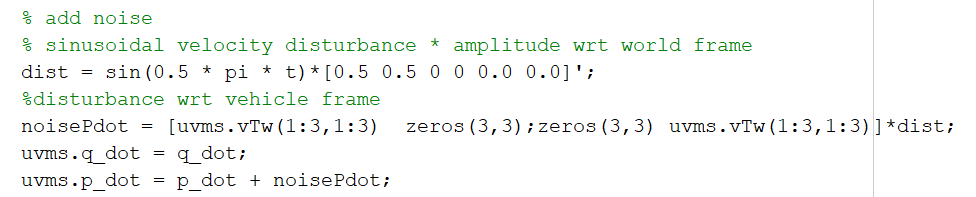
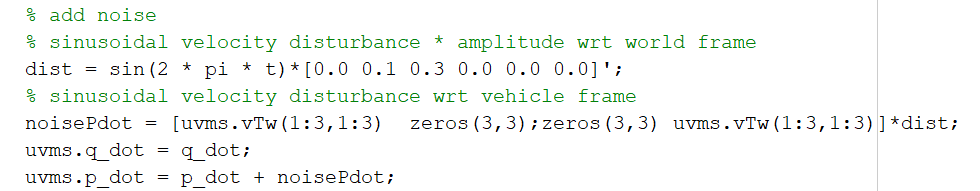
6 + print

diff --git a/esReport/es6/MainDexrov.m b/esReport/es6/MainDexrov.m
@@ -40,17 +40,17 @@ uvms = InitUVMS('DexROV');
 % Initial joint positions. You can change these values to initialize the simulation with a 
 % different starting position for the arm
 uvms.q = [-0.0031 1.2586 0.0128 -1.2460 0.0137 0.0853-pi/2 0.0137]';
-% uvms.p
 % initial position of the vehicle
 % the vector contains the values in the following order
 % [x y z r(rot_x) p(rot_y) y(rot_z)]
 % RPY angles are applied in the following sequence
 % R(rot_x, rot_y, rot_z) = Rz (rot_z) * Ry(rot_y) * Rx(rot_x)
 %uvms.p = [-1.9379 10.4813-6.1 -29.7242-0.1 0 0 0]';
-uvms.p = [ -1.8346, 10.540, -29.34, 0, 0,  0]';
+uvms.p = [-1.9400   10.6052  -29.0009  0.0926, 0.1050, -0.9320]';
+%uvms.p = [ -2, 10.440, -29.34, 0, 0,  -pi]';
 % initial goal position definition
 % slightly over the top of the pipe
-distanceGoalWrtPipe = 0.3;
+distanceGoalWrtPipe = 0.2;
 uvms.goalPosition = pipe_center + (pipe_radius + distanceGoalWrtPipe)*[0 0 1]';
 uvms.wRg = rotation(pi,0,0);
 uvms.wTg = [uvms.wRg uvms.goalPosition; 0 0 0 1];
@@ -103,7 +103,7 @@ for t = 0:deltat:end_time
     [Qp2, rhop2] = iCAT_task(uvms.A.t,    uvms.Jt,    Qp2, rhop2, uvms.xdot.t,  0.0001,   0.01, 10);
     %optmization
     [Qp2, rhop2] = iCAT_task(uvms.A.preferedShape,    uvms.JpreferedShape,    Qp2, rhop2, uvms.xdot.preferedShape,  0.0001,   0.01, 10);
-    %[Qp2, rhop2] = iCAT_task(uvms.A.vehicleStop,    uvms.JvehicleStop,    Qp2, rhop2, uvms.xdot.vehicleStop,  0.0001,   0.01, 10);
+    [Qp2, rhop2] = iCAT_task(uvms.A.vehicleStop,    uvms.JvehicleStop,    Qp2, rhop2, uvms.xdot.vehicleStop,  0.0001,   0.01, 10);
 
     [Qp2, rhop2] = iCAT_task(eye(13),     eye(13),    Qp2, rhop2, zeros(13,1),  0.0001,   0.01, 10);    % this task should be the last one
     
@@ -114,7 +114,7 @@ for t = 0:deltat:end_time
     
     % add noise
     % sinusoidal velocity disturbance * amplitude wrt world frame 
-    dist = sin(0.5 * pi * t)*[1.5 1.5 0 0 0.0 0.0]';
+    dist = sin(2 * pi * t)*[0.0 0.1 0.3 0.0 0.0 0.0]';
     % sinusoidal velocity disturbance wrt vehicle frame
     noisePdot = [uvms.vTw(1:3,1:3)  zeros(3,3);zeros(3,3) uvms.vTw(1:3,1:3)]*dist;
     uvms.q_dot = q_dot;        
@@ -137,11 +137,15 @@ for t = 0:deltat:end_time
    
     % add debug prints hereww
     if (mod(t,0.1) == 0)
-        mission.phase
-        [ang, lin] = CartError(uvms.wTg , uvms.wTt);
-        angular = ang
-        linear = lin
-        uvms.p
+%         mission.phase
+%         [ang, lin] = CartError(uvms.wTg , uvms.wTt);
+%         angular = ang
+%         linear = lin
+          uvms.p
+%         uvms.xdot.t
+%         uvms.xdot.jointLimitsL
+%         uvms.xdot.jointLimitsU
+%         uvms.xdot.preferedShape
     end
     
     % enable this to have the simulation approximately evolving like real

diff --git a/esReport/es6/PrintPlot.m b/esReport/es6/PrintPlot.m
@@ -27,12 +27,6 @@ xlabel('t (s)')
 ylabel('L.vel (m/s),A.vel (rad/s) ')
 legend('xdot', 'ydot','zdot','omega_x','omega_y','omega_z');
 
-
-figure(3);
-hplot = plot(plt.t, plt.a(1:7,:));
-set(hplot, 'LineWidth', 2);
-legend('Ajl_11','Ajl_22','Ajl_33','Ajl_44','Ajl_55','Ajl_66','Ajl_77');
-
 figure(4);
 hplot = plot(plt.t, plt.a(8:9,:));
 set(hplot, 'LineWidth', 2);
@@ -88,6 +82,47 @@ legend('x','y','z');
 title('tool position')
 xlabel('t (s)')
 ylabel('Position (m)')
+figure(20);
+hplot = plot(plt.t, plt.toolPos(1,:));
+set(hplot, 'LineWidth', 1);
+title('comparison vehicle and tool x')
+xlabel('t (s)')
+ylabel('Position (m)')
+hold on 
+hplot = plot(plt.t, plt.p(3,:));
+set(hplot, 'LineWidth', 1);
+legend('x tool','x vehicle');
+figure(21);
+hplot = plot(plt.t, plt.toolPos(2,:));
+set(hplot, 'LineWidth', 1);
+title('comparison vehicle and tool y')
+xlabel('t (s)')
+ylabel('Position (m)')
+hold on 
+hplot = plot(plt.t, plt.p(2,:));
+set(hplot, 'LineWidth', 1);
+legend('y tool','y vehicle');
+figure(22);
+hplot = plot(plt.t, plt.toolPos(3,:));
+set(hplot, 'LineWidth', 1);
+title('comparison vehicle and tool z')
+xlabel('t (s)')
+ylabel('Position (m)')
+hold on 
+hplot = plot(plt.t, plt.p(3,:));
+set(hplot, 'LineWidth', 1);
+legend('z tool','z vehicle');
+figure(23)
+plot(plt.t, plt.xdot_t, 'LineWidth', 1);
+title('tool velocities');
+legend('w_x','w_y','w_z','v_x', 'v_y','v_z');
+xlabel('t (s)')
+ylabel('Velocities')
+
+% figure (24)
+% plot(plt.t, plt.man, 'LineWidth', 1);
+% title('man');
+% xlabel('t (s)')
 
 jlmin  = [-2.9;-1.6;-2.9;-2.95;-2.9;-1.65;-2.8];
 jlmax  = [2.9;1.65;2.9;0.01;2.9;1.25;2.8];

diff --git a/esReport/es6/ComputeTaskReferences.m b/esReport/es6/ComputeTaskReferences.m
@@ -2,14 +2,15 @@ function [uvms] = ComputeTaskReferences(uvms, mission)
 % compute the task references here
 
 % reference for tool-frame position control task
+gain = 1;
 [ang, lin] = CartError(uvms.vTg , uvms.vTt);
-uvms.xdot.t = 0.5 * [ang; lin];
+uvms.xdot.t = gain * [ang; lin];
 % limit the requested velocities...
-uvms.xdot.t(1:3) = Saturate(uvms.xdot.t(1:3), 0.5);
-uvms.xdot.t(4:6) = Saturate(uvms.xdot.t(4:6), 0.5);
+uvms.xdot.t(1:3) = Saturate(uvms.xdot.t(1:3), gain);
+uvms.xdot.t(4:6) = Saturate(uvms.xdot.t(4:6), gain);
 
 %i wish to drive the angle to zero
-uvms.xdot.ha = 0.2 * (0 - norm(uvms.v_rho));
+uvms.xdot.ha = gain * (0 - norm(uvms.v_rho));
 
 %error between goal and vehicle position and orientation projected on <w>
  [w_vang, w_vlin] = CartError(uvms.wTgvehicle , uvms.wTv);
@@ -20,13 +21,13 @@ uvms.xdot.ha = 0.2 * (0 - norm(uvms.v_rho));
 uvms.xdot.vehicleStop = zeros(6,1);
 
 %joint limits lower
-uvms.xdot.jointLimitsL = Saturate(0.5 * ((uvms.jlmin + uvms.rangeJoint) -uvms.q), 0.5);
+uvms.xdot.jointLimitsL = Saturate(gain * ((uvms.jlmin + uvms.rangeJoint) -uvms.q), gain);
 %joint limits upper
-uvms.xdot.jointLimitsU = Saturate(0.5 * ((uvms.jlmax - uvms.rangeJoint) -uvms.q), 0.5);
+uvms.xdot.jointLimitsU = Saturate(gain * ((uvms.jlmax - uvms.rangeJoint) -uvms.q), gain);
 
 %prefered shapes
 prefSetting = [-0.0031 1.2586 0.0128 -1.2460]';
-uvms.xdot.preferedShape = Saturate(0.5 * (prefSetting- uvms.q(1:4)), 0.5);
+uvms.xdot.preferedShape = Saturate(gain * (prefSetting- uvms.q(1:4)), gain);
 %vehicle control 
 uvms.xdot.vehicleControl = uvms.p_dot;
 

diff --git a/esReport/es6/UpdateDataPlot.m b/esReport/es6/UpdateDataPlot.m
@@ -21,6 +21,7 @@ plt.p_dot(:, loop) = uvms.p_dot;
 %plt.xdot_mu(:, loop) = uvms.xdot.mu;
 plt.xdot_t(:, loop) =  blkdiag(uvms.wTv(1:3,1:3), uvms.wTv(1:3,1:3))*uvms.xdot.t;
 
+plt.a(1:7, loop) = diag(uvms.A.jl);
 plt.a(1, loop) = uvms.A.ha(1,1);
 plt.a(2:8, loop) = diag(uvms.A.jointLimitsL);
 plt.a(9:15, loop) = diag(uvms.A.jointLimitsU);
@@ -31,4 +32,7 @@ plt.tooly(:,loop) = uvms.wTt(2,4);
 
 % altitutde
 plt.altitude(:,loop) = uvms.w_distance;
+% man
+
+plt.man(:,loop) = sqrt(det(uvms.bJe*(uvms.bJe')));
 end
